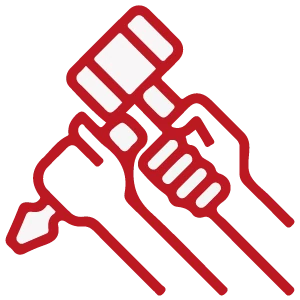
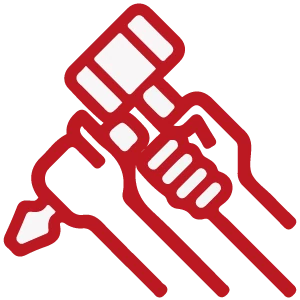
Mejora CTAs y tarjetas de valores en Quiénes Somos
- "Ver todas las categorías" pasa de outline a rojo sólido para
  resaltar igual que la CTA de WhatsApp.
- Las 4 tarjetas de valores quedan sin borde, con sombra suave tipo
  "flotante" y contenido (ícono + textos) centrado.
- Reemplaza los íconos de Artesanía colombiana y Útiles y funcionales
  por las versiones nuevas entregadas.

diff --git a/src/app/(site)/quienes-somos/page.tsx b/src/app/(site)/quienes-somos/page.tsx
@@ -99,20 +99,20 @@ export default function QuienesSomosPage() {
 
           <Link
             href="/categorias"
-            className="group flex items-center gap-4 rounded-2xl border-2 border-rojo-100 bg-white p-5 shadow-sm transition-all duration-300 hover:-translate-y-0.5 hover:border-rojo-300 hover:shadow-lg"
+            className="group flex items-center gap-4 rounded-2xl border-2 border-rojo-500 bg-rojo-500 p-5 shadow-sm transition-all duration-300 hover:-translate-y-0.5 hover:bg-rojo-600 hover:shadow-lg"
           >
             <Image
               src="/img/quienes-somos/icon-categorias.webp"
               alt=""
               width={44}
               height={44}
-              className="h-11 w-11 shrink-0"
+              className="h-11 w-11 shrink-0 brightness-0 invert"
             />
             <span>
-              <span className="block font-display text-lg font-bold text-madera-900">
+              <span className="block font-display text-lg font-bold text-white">
                 Ver todas las categorías
               </span>
-              <span className="text-sm text-carbon/70">
+              <span className="text-sm text-white/85">
                 Explora por estilo y espacio
               </span>
             </span>
@@ -123,7 +123,7 @@ export default function QuienesSomosPage() {
           {valores.map((v) => (
             <div
               key={v.title}
-              className="rounded-2xl border border-madera-100 bg-white p-5 shadow-sm"
+              className="flex flex-col items-center rounded-2xl bg-white p-6 text-center shadow-[0_8px_24px_-8px_rgba(0,0,0,0.15)] transition-shadow duration-300 hover:shadow-[0_12px_32px_-8px_rgba(0,0,0,0.2)]"
             >
               <Image
                 src={`/img/quienes-somos/${v.icon}.webp`}
